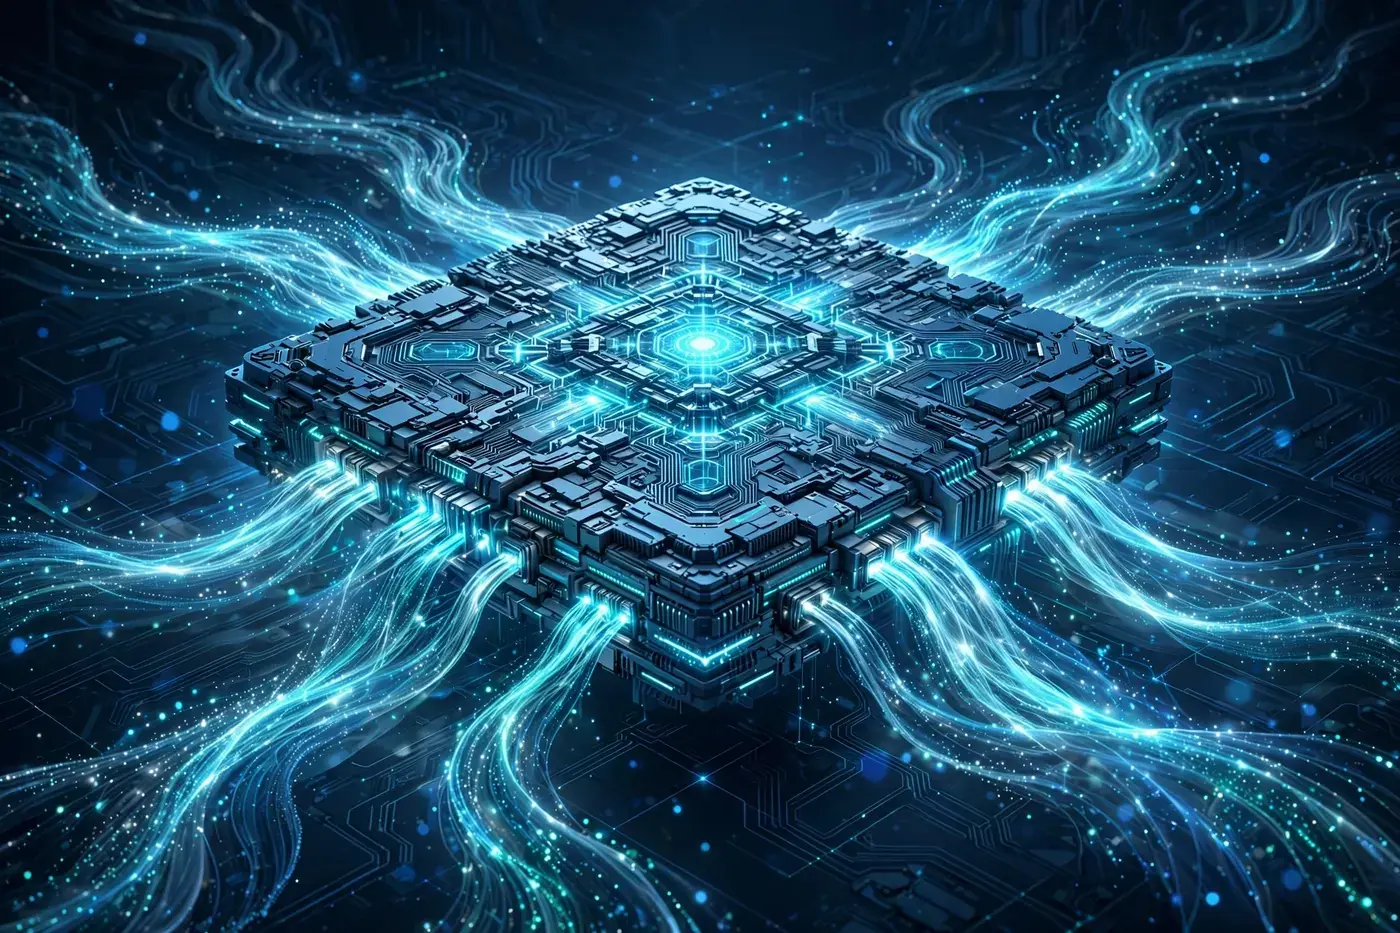
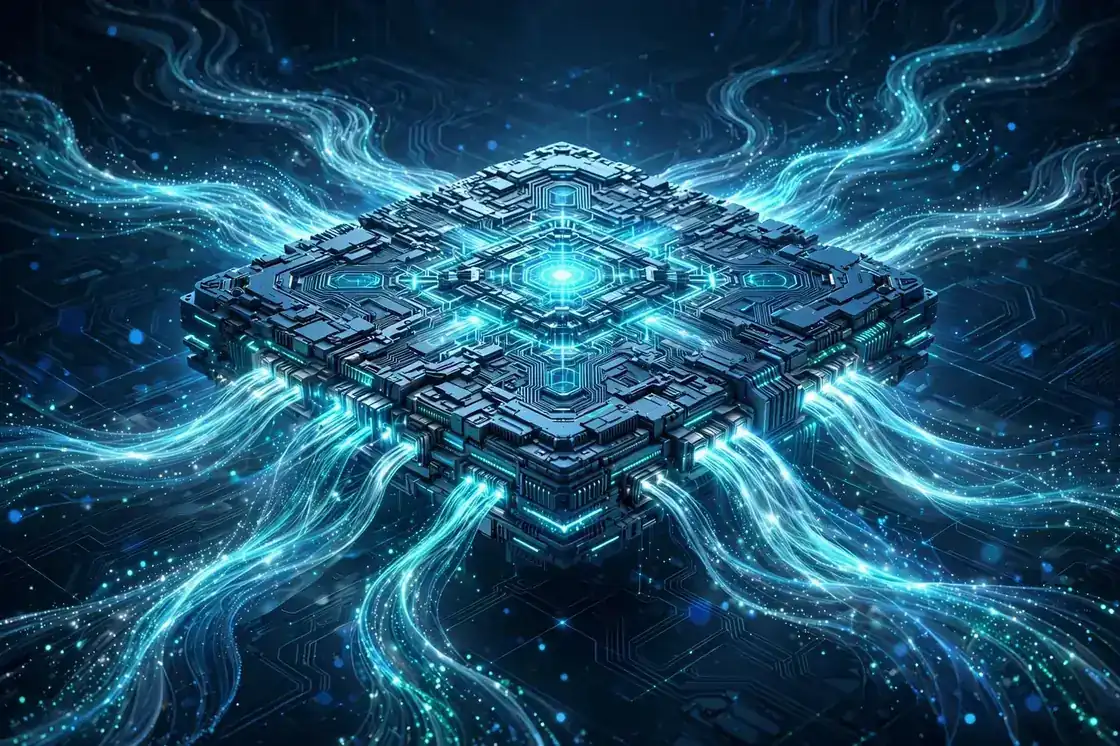
首屏大图再压缩：img-01降到115KB

diff --git a/index.html b/index.html
@@ -577,7 +577,7 @@ body.locked{overflow:hidden}
     </div>
 
     <article class="lead" data-open="art-n1" data-type="news" tabindex="0" role="button" aria-label="阅读：谷歌发布 Gemini 4 Argon">
-      <div class="lead-img"><img src="img-01.webp" alt="谷歌 Gemini 4 Argon：AI 芯片与数据流的艺术插画" width="1400" height="933"  fetchpriority="high" decoding="async" /></div>
+      <div class="lead-img"><img src="img-01.webp" alt="谷歌 Gemini 4 Argon：AI 芯片与数据流的艺术插画" width="1120" height="746"  fetchpriority="high" decoding="async" /></div>
       <div class="lead-body">
         <span class="tag">今日头条</span>
         <h3>谷歌发布 Gemini 4 Argon：先只给网络安全专家用</h3>
